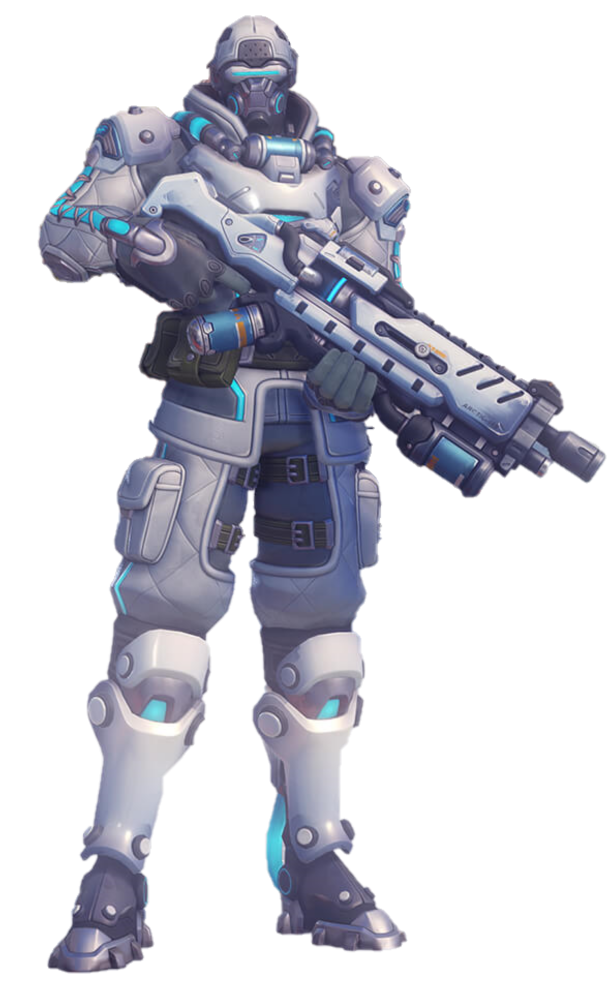
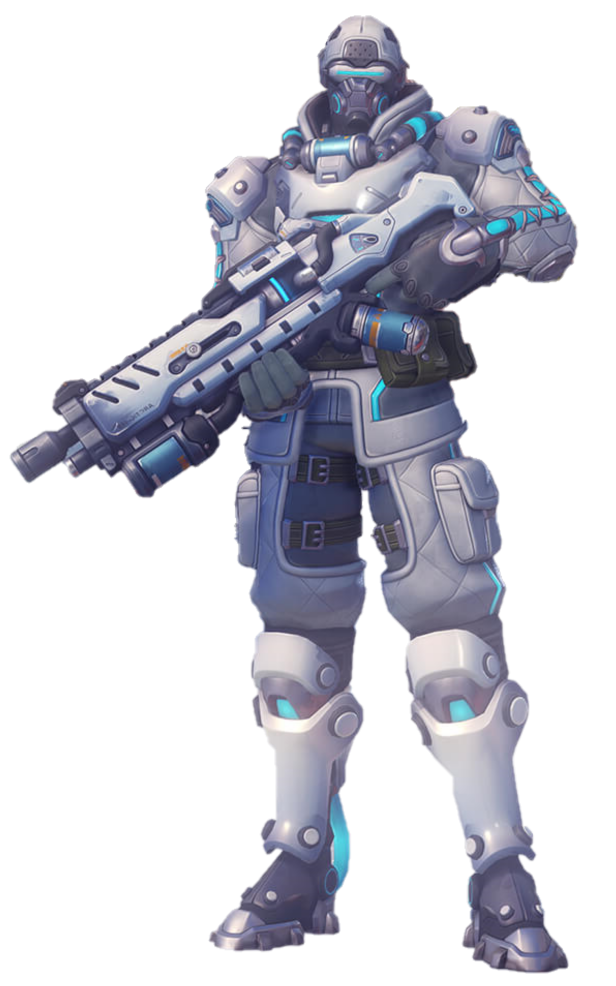
rename and modification picture hanzo and soldat, add positon and size picture ana in css

diff --git a/style.css b/style.css
@@ -813,6 +813,14 @@ button:focus {
     z-index: 3;
 }
 
+.ana-noel {
+    position: absolute;
+    bottom: -198%;
+    left: 35%;
+    width: 12%;
+    z-index: 3;
+}
+
 .chacal-noel {
     position: absolute;
     top: 224%;
